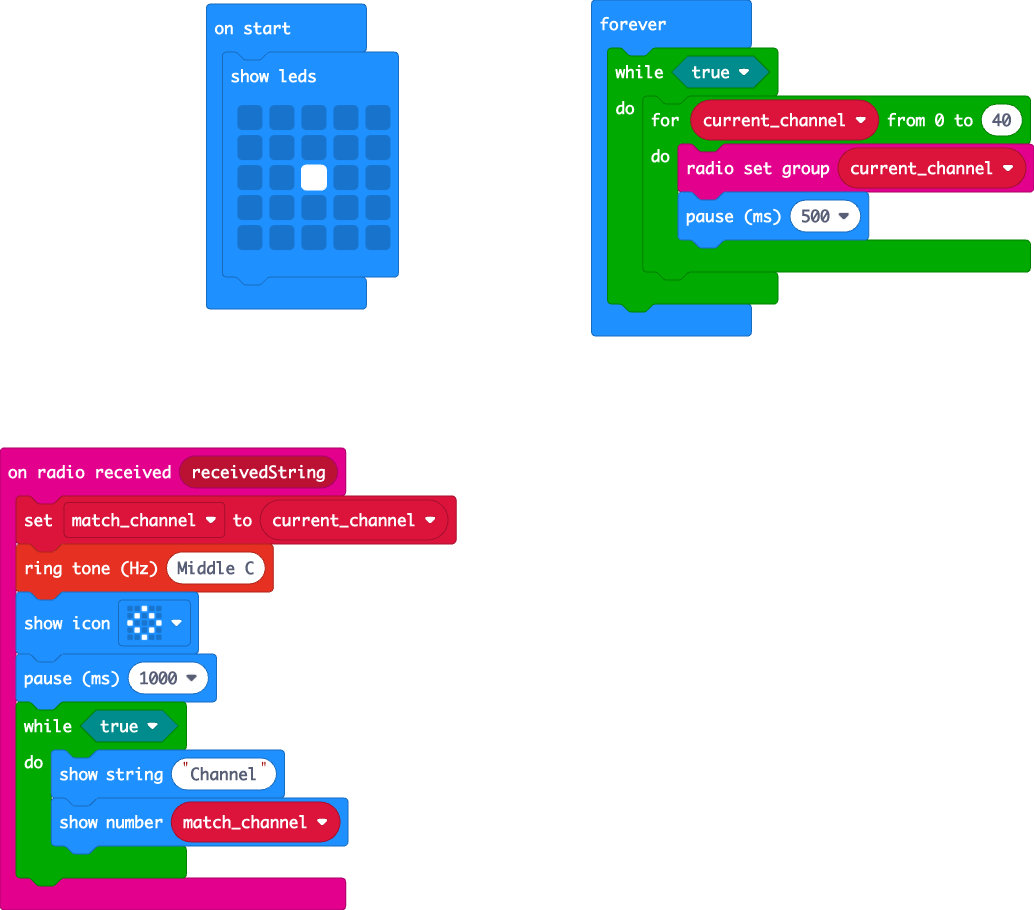
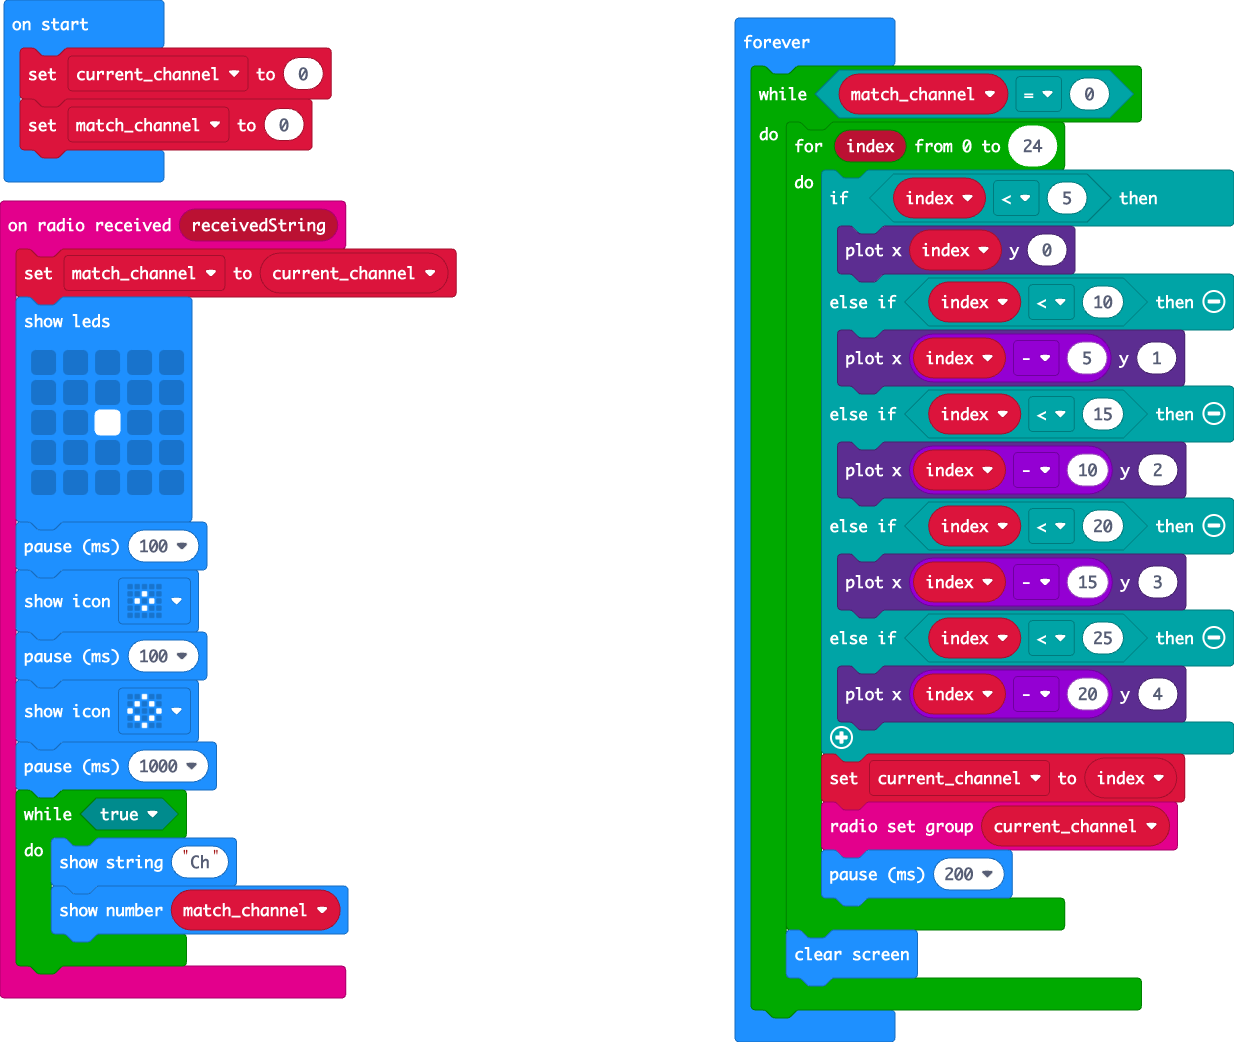
final

diff --git a/main.ts b/main.ts
@@ -1,27 +1,44 @@
 radio.onReceivedString(function (receivedString) {
-    let current_channel = 0
     match_channel = current_channel
-    music.ringTone(262)
+    basic.showLeds(`
+        . . . . .
+        . . . . .
+        . . # . .
+        . . . . .
+        . . . . .
+        `)
+    basic.pause(100)
+    basic.showIcon(IconNames.SmallDiamond)
+    basic.pause(100)
     basic.showIcon(IconNames.Diamond)
     basic.pause(1000)
     while (true) {
-        basic.showString("Channel")
+        basic.showString("Ch")
         basic.showNumber(match_channel)
     }
 })
 let match_channel = 0
-basic.showLeds(`
-    . . . . .
-    . . . . .
-    . . # . .
-    . . . . .
-    . . . . .
-    `)
+let current_channel = 0
+current_channel = 0
+match_channel = 0
 basic.forever(function () {
-    while (true) {
-        for (let current_channel = 0; current_channel <= 40; current_channel++) {
+    while (match_channel == 0) {
+        for (let index = 0; index <= 24; index++) {
+            if (index < 5) {
+                led.plot(index, 0)
+            } else if (index < 10) {
+                led.plot(index - 5, 1)
+            } else if (index < 15) {
+                led.plot(index - 10, 2)
+            } else if (index < 20) {
+                led.plot(index - 15, 3)
+            } else if (index < 25) {
+                led.plot(index - 20, 4)
+            }
+            current_channel = index
             radio.setGroup(current_channel)
-            basic.pause(500)
+            basic.pause(200)
         }
+        basic.clearScreen()
     }
 })

diff --git a/main.py b/main.py
@@ -1,0 +1,44 @@
+def on_received_string(receivedString):
+    global match_channel
+    match_channel = current_channel
+    basic.show_leds("""
+        . . . . .
+                . . . . .
+                . . # . .
+                . . . . .
+                . . . . .
+    """)
+    basic.pause(100)
+    basic.show_icon(IconNames.SMALL_DIAMOND)
+    basic.pause(100)
+    basic.show_icon(IconNames.DIAMOND)
+    basic.pause(1000)
+    while True:
+        basic.show_string("Ch")
+        basic.show_number(match_channel)
+radio.on_received_string(on_received_string)
+
+match_channel = 0
+current_channel = 0
+current_channel = 0
+match_channel = 0
+
+def on_forever():
+    global current_channel
+    while match_channel == 0:
+        for index in range(25):
+            if index < 5:
+                led.plot(index, 0)
+            elif index < 10:
+                led.plot(index - 5, 1)
+            elif index < 15:
+                led.plot(index - 10, 2)
+            elif index < 20:
+                led.plot(index - 15, 3)
+            elif index < 25:
+                led.plot(index - 20, 4)
+            current_channel = index
+            radio.set_group(current_channel)
+            basic.pause(200)
+        basic.clear_screen()
+basic.forever(on_forever)
